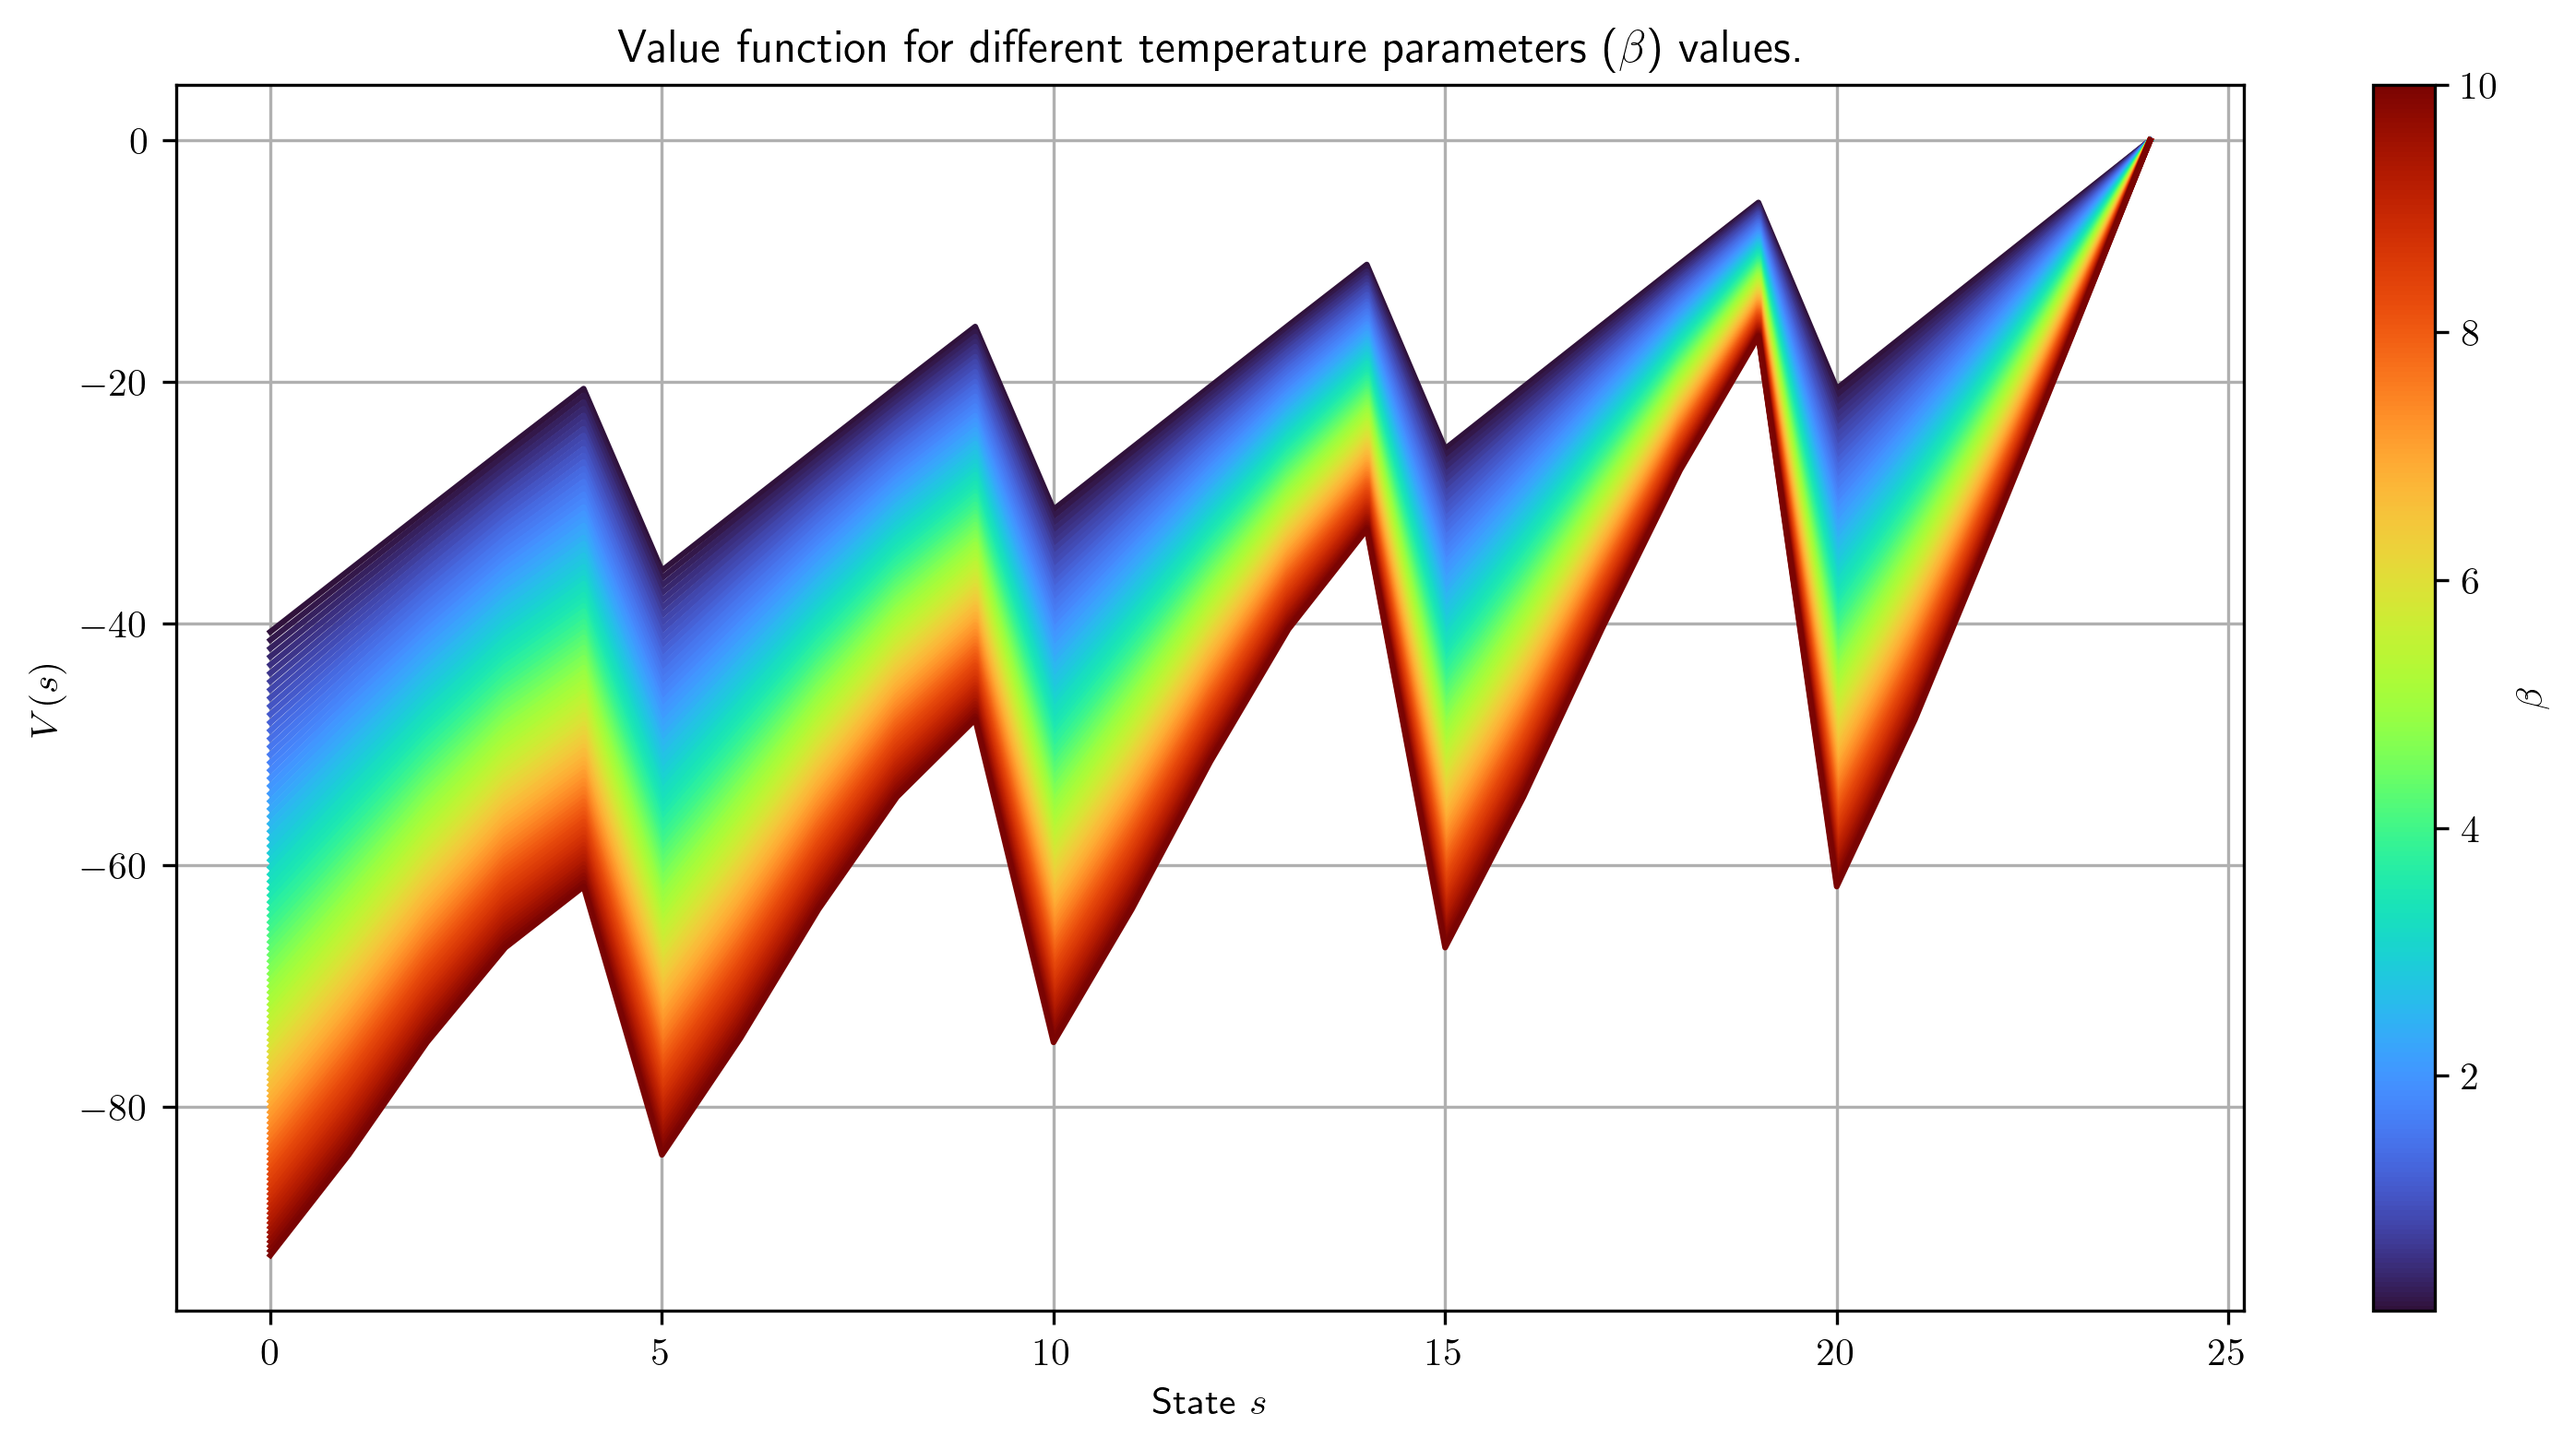
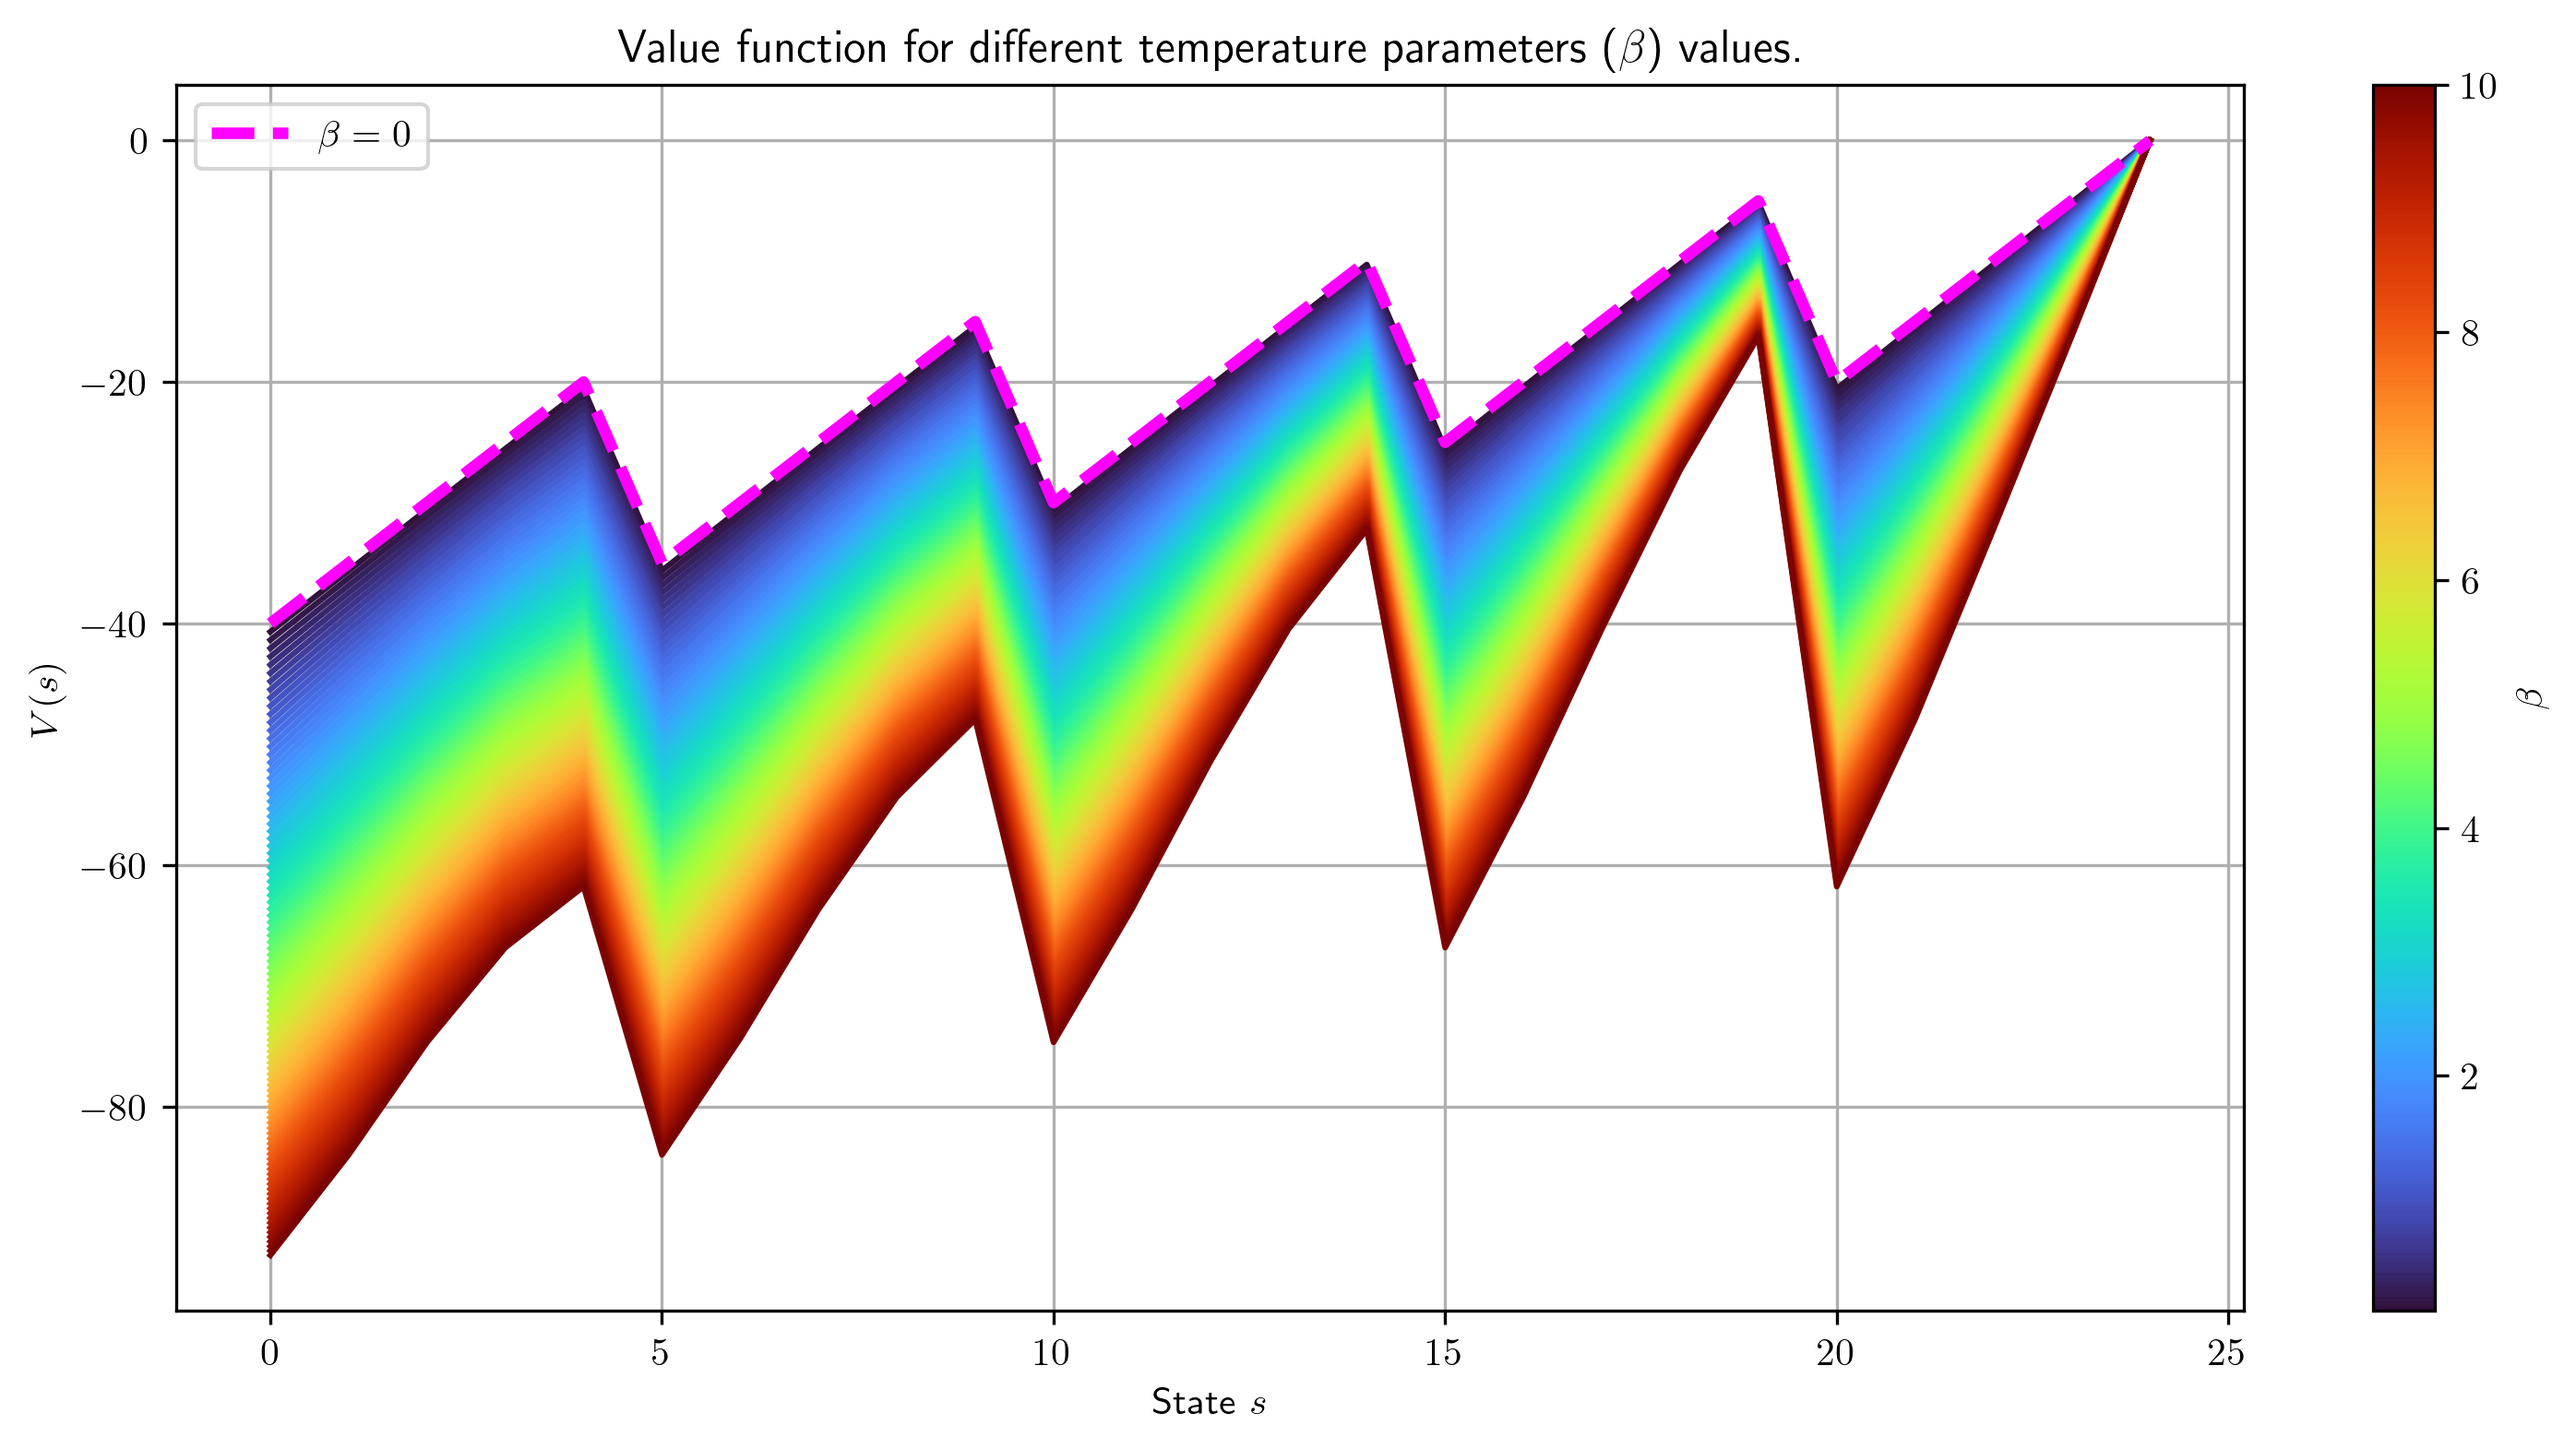
Added value function with beta = 0 in different_temperature_plots

diff --git a/utils/experiments.py b/utils/experiments.py
@@ -483,6 +483,17 @@ def different_temperature_plots(model_type: Literal["MDP", "LMDP"] = "MDP", save
     sm.set_array([])
     
     map = Map(grid_size=5)
+    
+    if model_type == "MDP":
+        model = GridWorldMDP(
+            map=map,
+            allowed_actions=GridWorldActions.get_actions()[:4],
+            behaviour="deterministic",
+            temperature=0,
+            verbose=False
+        )
+        model.compute_value_function()
+        plt.plot(model.V, color="magenta", linewidth=3, zorder=3, label=r"$\beta = 0$", linestyle="--")
 
     for i, temp in enumerate(temperatures):
         if model_type == "MDP":
@@ -490,13 +501,15 @@ def different_temperature_plots(model_type: Literal["MDP", "LMDP"] = "MDP", save
                 map=map,
                 allowed_actions=GridWorldActions.get_actions()[:4],
                 behaviour="deterministic",
-                temperature=temp
+                temperature=temp,
+                verbose=False
             )
         else:
             model = GridWorldLMDP(
                 map=map,
                 allowed_actions=GridWorldActions.get_actions()[:4],
-                lmbda=temp
+                lmbda=temp,
+                verbose=False
             )
     
         model.compute_value_function()
@@ -509,6 +522,7 @@ def different_temperature_plots(model_type: Literal["MDP", "LMDP"] = "MDP", save
     cbar = plt.colorbar(sm, ax=ax)
     cbar.set_label(f"$\{temp_name}$")
     ax.set_title(f"Value function for different temperature parameters ($\{temp_name}$) values.")
+    plt.legend()
     plt.grid()
     if save_fig:
         plt.savefig(f"assets/{model_type}_different_temperature.png", dpi=300, bbox_inches="tight")

diff --git a/main.py b/main.py
@@ -141,4 +141,4 @@ def explore_temperature(map: Map, mdp_temperature: float, probs: list[float], sa
 
 if __name__ == "__main__":
     
-    benchmark_value_iteration(save_fig=True, max_size=50)
+    different_temperature_plots(save_fig=True)
